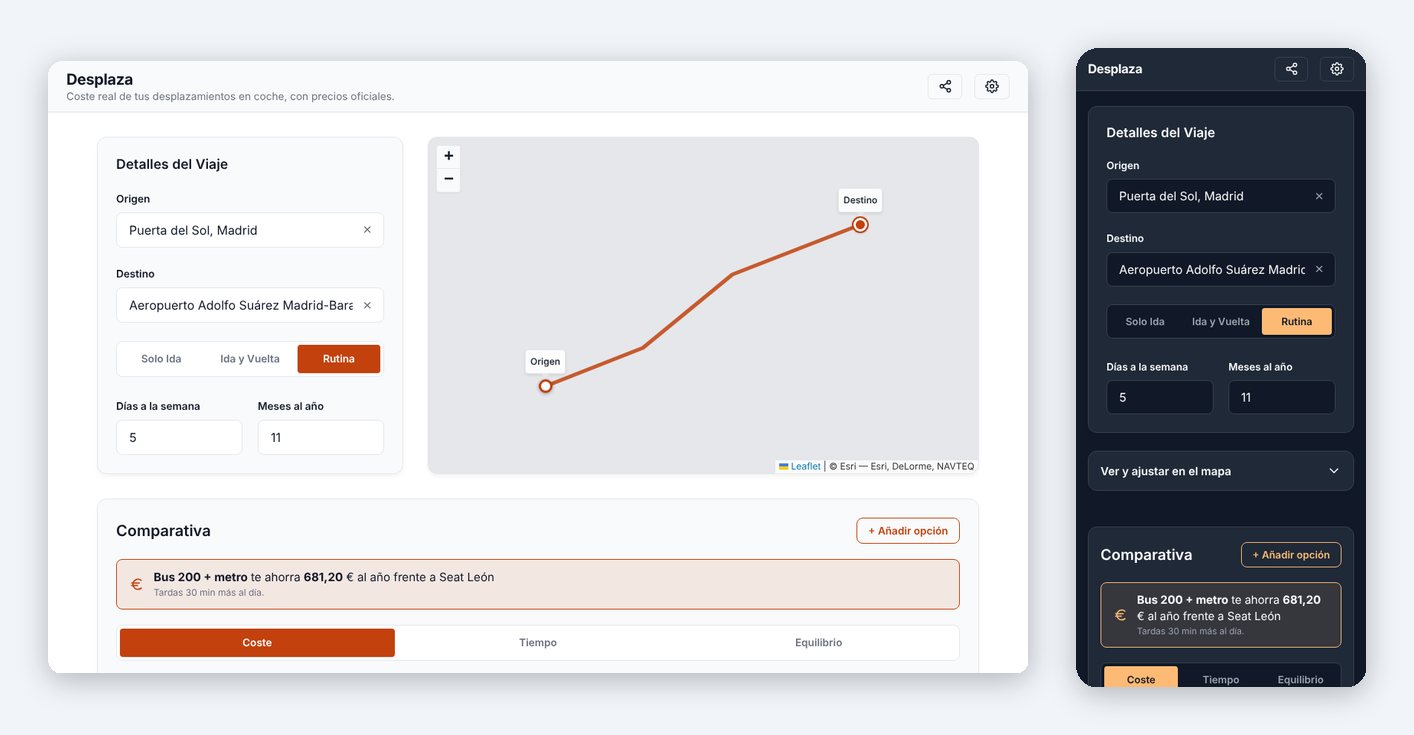
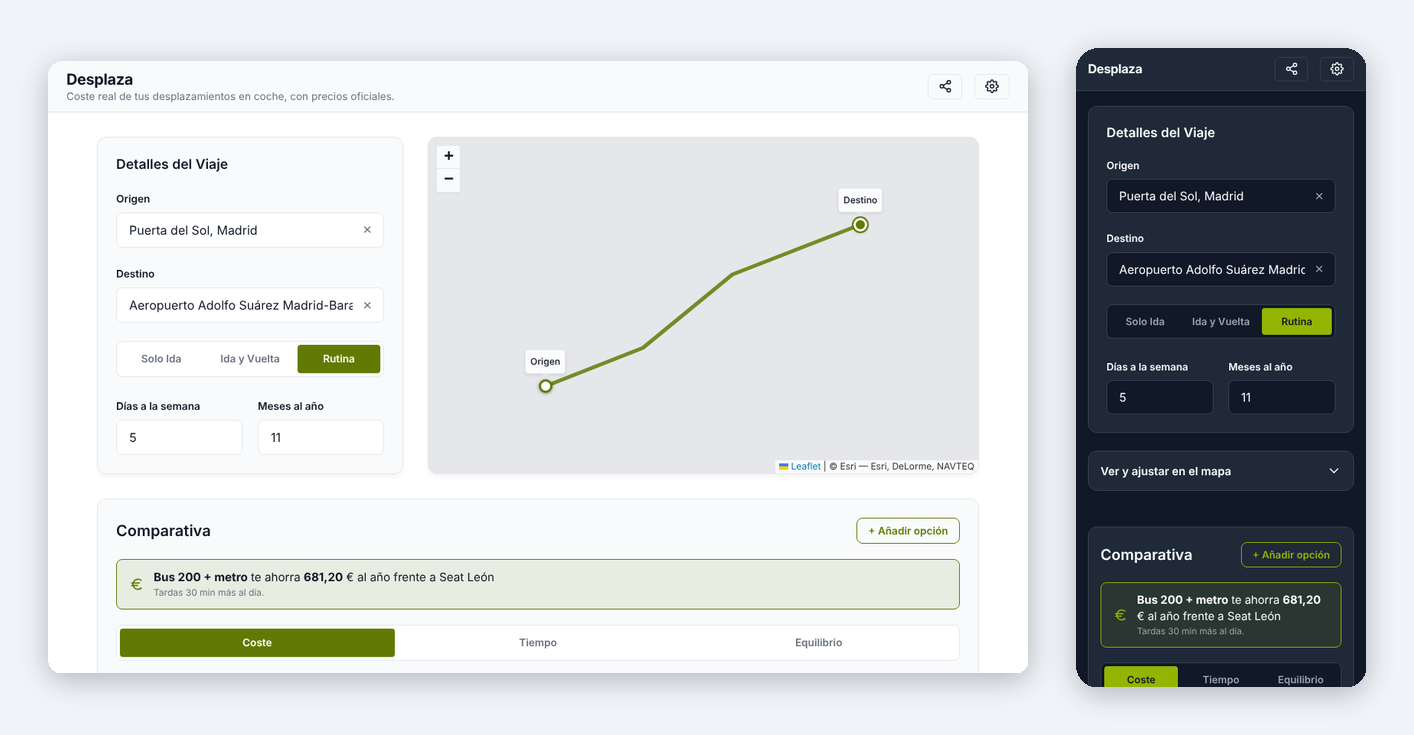
style: leaf green accent with the same hue in light and dark
Replaces the orange accent, which read as a warning and changed hue between
themes. The new accent is #627a03 in light and #93b403 in dark. The design
system table, the changelog, the screenshots, the evolution page and the
preview image are updated.

diff --git a/src/assets/styles/main.css b/src/assets/styles/main.css
@@ -6,9 +6,9 @@
   --text-main: #111827;
   --text-muted: #6b7280;
   --border-color: #e5e7eb;
-  --accent-color: #c2410c;
-  --accent-color-hover: #9a3412;
-  --accent-color-alpha: rgba(194, 65, 12, 0.1);
+  --accent-color: #627a03;
+  --accent-color-hover: #536701;
+  --accent-color-alpha: rgba(98, 122, 3, 0.1);
   --error-color: #ef4444;
 
   /* Typography */
@@ -29,9 +29,9 @@
     --text-main: #f9fafb;
     --text-muted: #9ca3af;
     --border-color: #374151;
-    --accent-color: #fdba74;
-    --accent-color-hover: #fed7aa;
-    --accent-color-alpha: rgba(253, 186, 116, 0.1);
+    --accent-color: #93b403;
+    --accent-color-hover: #a1c505;
+    --accent-color-alpha: rgba(147, 180, 3, 0.1);
     --error-color: #f87171;
   }
 }
@@ -43,9 +43,9 @@
   --text-main: #f9fafb;
   --text-muted: #9ca3af;
   --border-color: #374151;
-  --accent-color: #fdba74;
-  --accent-color-hover: #fed7aa;
-  --accent-color-alpha: rgba(253, 186, 116, 0.1);
+  --accent-color: #93b403;
+  --accent-color-hover: #a1c505;
+  --accent-color-alpha: rgba(147, 180, 3, 0.1);
   --error-color: #f87171;
 }
 

diff --git a/docs/evolution/README-es.md b/docs/evolution/README-es.md
@@ -19,7 +19,7 @@ Versiones: la v1.0.0 y la v1.0.1 (agosto de 2026) se quedan como estaban; la com
 | Agosto de 2026 | Primer commit y primeras versiones públicas (v1.0.0 y v1.0.1): un coche, los precios del MITECO, una ruta en un mapa y el coste mensual y anual. Una rama con trabajo de accesibilidad y usabilidad se quedó sin integrar. |
 | Octubre de 2026 | Software libre (AGPL-3.0), sin Google Analytics ni banner de cookies, documentación honesta de los servicios de terceros, un sistema de diseño compartido con las otras dos herramientas y CI que condiciona cada despliegue. Se integró la rama de accesibilidad: la búsqueda de direcciones pasó a ser un combobox accesible con teclado y la ventana de fuentes un diálogo de verdad. |
 | Octubre de 2026 | Comparativa de varias opciones sobre el mismo trayecto: coches, una moto, un coche eléctrico y transporte público, ordenadas por coste, tiempo o equilibrio, editadas en un modal y mostradas como tabla en pantallas anchas. Publicada como v2.0.0, sobre la v1.0.0 y la v1.0.1. |
-| Noviembre de 2026 | Un aspecto nuevo y una frase de veredicto: acento naranja en claro y oscuro, una escala de texto común con las otras dos herramientas, una frase sobre la comparativa con lo que ahorra la opción más barata frente a la más cara y cuánto más tarda, y el arreglo de la tabla que aplastaba los nombres entre 760 y 900 px. Publicada como v2.1.0. |
+| Noviembre de 2026 | Un aspecto nuevo y una frase de veredicto: acento verde hoja en claro y oscuro, una escala de texto común con las otras dos herramientas, una frase sobre la comparativa con lo que ahorra la opción más barata frente a la más cara y cuánto más tarda, y el arreglo de la tabla que aplastaba los nombres entre 760 y 900 px. Publicada como v2.1.0. |
 
 ## En cifras
 

diff --git a/docs/evolution/README.md b/docs/evolution/README.md
@@ -19,7 +19,7 @@ Releases: v1.0.0 and v1.0.1 (August 2026) stay as they were; the comparison of o
 | August 2026 | First commit and first public versions (v1.0.0 and v1.0.1): one car, MITECO fuel prices, a route on a map and the monthly and yearly cost. A branch with accessibility and usability work stayed unmerged. |
 | October 2026 | Free software (AGPL-3.0), no Google Analytics or cookie banner, honest documentation of the third-party services, one design system shared with the other two tools and CI that gates every deploy. The accessibility branch was brought in: the address search became a keyboard-accessible combobox and the sources dialog a real dialog. |
 | October 2026 | Comparison of several options on the same trip: cars, a motorbike, an electric car and public transport, ranked by cost, time or balance, edited in a dialog and shown as a table on wide screens. Published as v2.0.0, on top of v1.0.0 and v1.0.1. |
-| November 2026 | A new look and a verdict line: orange accent in light and dark, one text scale shared with the other two tools, a sentence above the comparison with what the cheapest option saves against the most expensive one and how much longer it takes, and a fix for the table that squeezed option names between 760 and 900 px. Published as v2.1.0. |
+| November 2026 | A new look and a verdict line: leaf green accent in light and dark, one text scale shared with the other two tools, a sentence above the comparison with what the cheapest option saves against the most expensive one and how much longer it takes, and a fix for the table that squeezed option names between 760 and 900 px. Published as v2.1.0. |
 
 ## In numbers
 

diff --git a/docs/DESIGN-SYSTEM-es.md b/docs/DESIGN-SYSTEM-es.md
@@ -34,10 +34,10 @@ La lista está en `shared-components.json`, junto con el SHA-256 de cada fichero
 | `--text-main` | `#111827` | `#f9fafb` |
 | `--text-muted` | `#6b7280` | `#9ca3af` |
 | `--border-color` | `#e5e7eb` | `#374151` |
-| `--accent-color` | `#c2410c` (cada app puede elegir el suyo) | `#fdba74` (cada app puede elegir el suyo) |
+| `--accent-color` | `#627a03` (cada app puede elegir el suyo) | `#93b403` (cada app puede elegir el suyo) |
 | `--error-color` | `#ef4444` | `#f87171` |
 
-El acento es lo único que una app puede cambiar para tener identidad propia sin tocar los componentes compartidos: solo leen `--accent-color` y `--bg-body`. Desplaza usa naranja (`#c2410c` en claro, `#fdba74` en oscuro).
+El acento es lo único que una app puede cambiar para tener identidad propia sin tocar los componentes compartidos: solo leen `--accent-color` y `--bg-body`. Desplaza usa verde hoja (`#627a03` en claro, `#93b403` en oscuro).
 
 Las tarjetas usan `--bg-surface` sobre `--bg-body`, los controles usan `--bg-body`, y los radios son de 8 px en controles y de 12 px en tarjetas.
 

diff --git a/docs/DESIGN-SYSTEM.md b/docs/DESIGN-SYSTEM.md
@@ -34,10 +34,10 @@ The list lives in `shared-components.json`, together with the SHA-256 of each fi
 | `--text-main` | `#111827` | `#f9fafb` |
 | `--text-muted` | `#6b7280` | `#9ca3af` |
 | `--border-color` | `#e5e7eb` | `#374151` |
-| `--accent-color` | `#c2410c` (each app may choose its own) | `#fdba74` (each app may choose its own) |
+| `--accent-color` | `#627a03` (each app may choose its own) | `#93b403` (each app may choose its own) |
 | `--error-color` | `#ef4444` | `#f87171` |
 
-The accent color is the one thing an app can change to have its own identity without touching the shared components: they only read `--accent-color` and `--bg-body`. Desplaza uses orange (`#c2410c` in light, `#fdba74` in dark).
+The accent color is the one thing an app can change to have its own identity without touching the shared components: they only read `--accent-color` and `--bg-body`. Desplaza uses leaf green (`#627a03` in light, `#93b403` in dark).
 
 Cards use `--bg-surface` over `--bg-body`, controls use `--bg-body`, and radii are 8 px for controls and 12 px for cards.
 

diff --git a/CHANGELOG.md b/CHANGELOG.md
@@ -15,8 +15,8 @@ footer.
   much longer or shorter it takes.
 
 ### Changed
-- Orange accent instead of black and white, in light and dark, including the
-  best option, the sort selector, the route on the map and the save button of
+- Leaf green accent instead of black and white, with the same hue in light and
+  dark, including the best option, the sort selector, the route on the map and the save button of
   the option dialog.
 - One text scale (12, 13.6 and 15.2 px) across the app, shared with the other
   tools.
